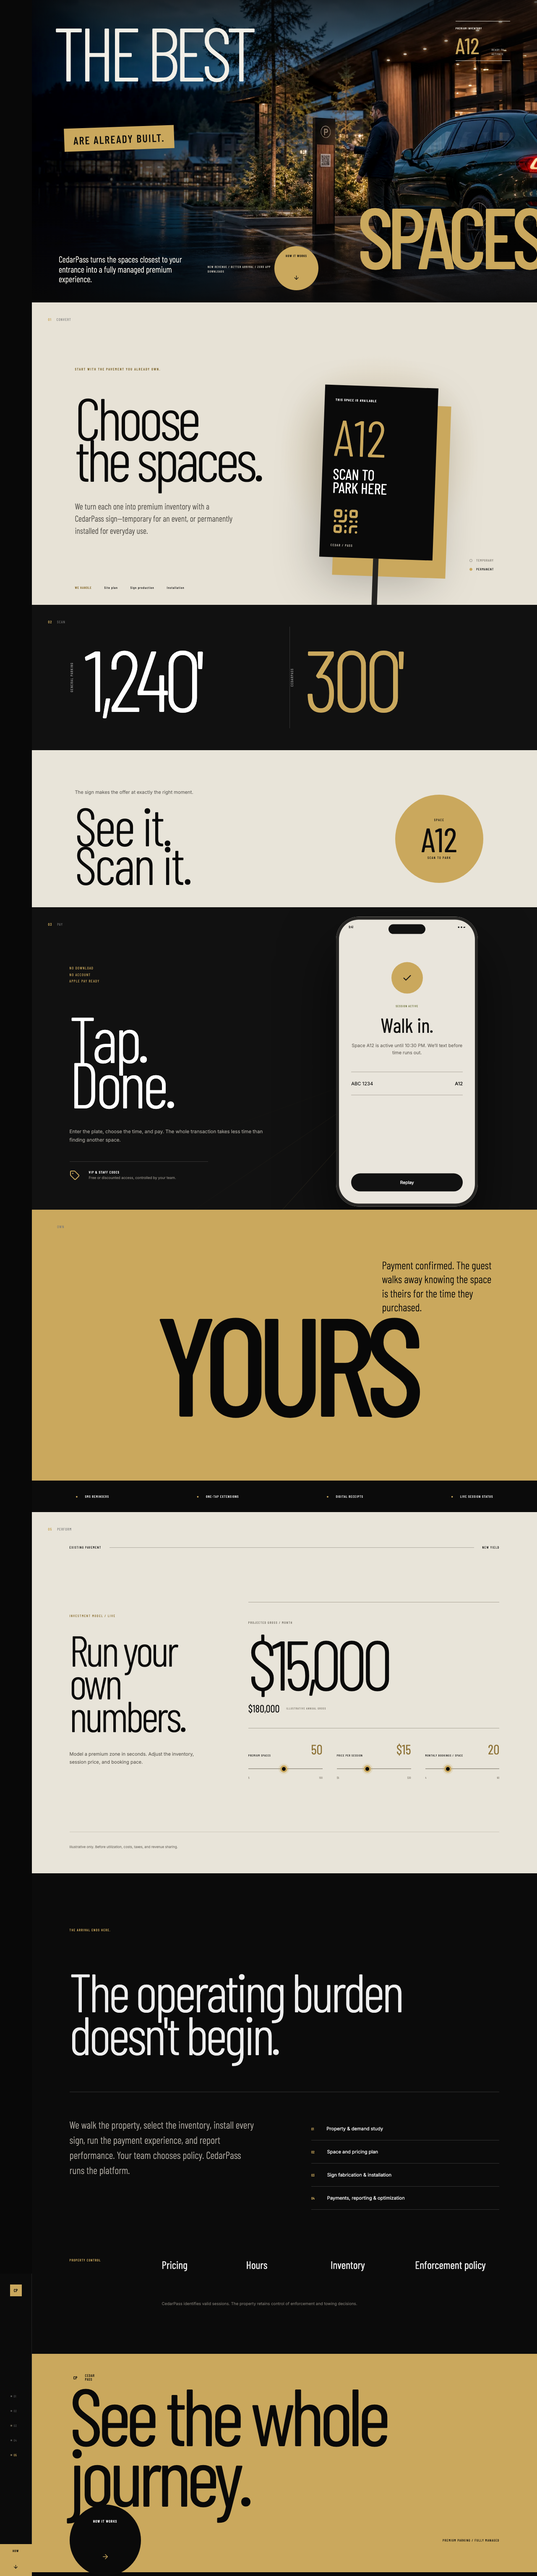
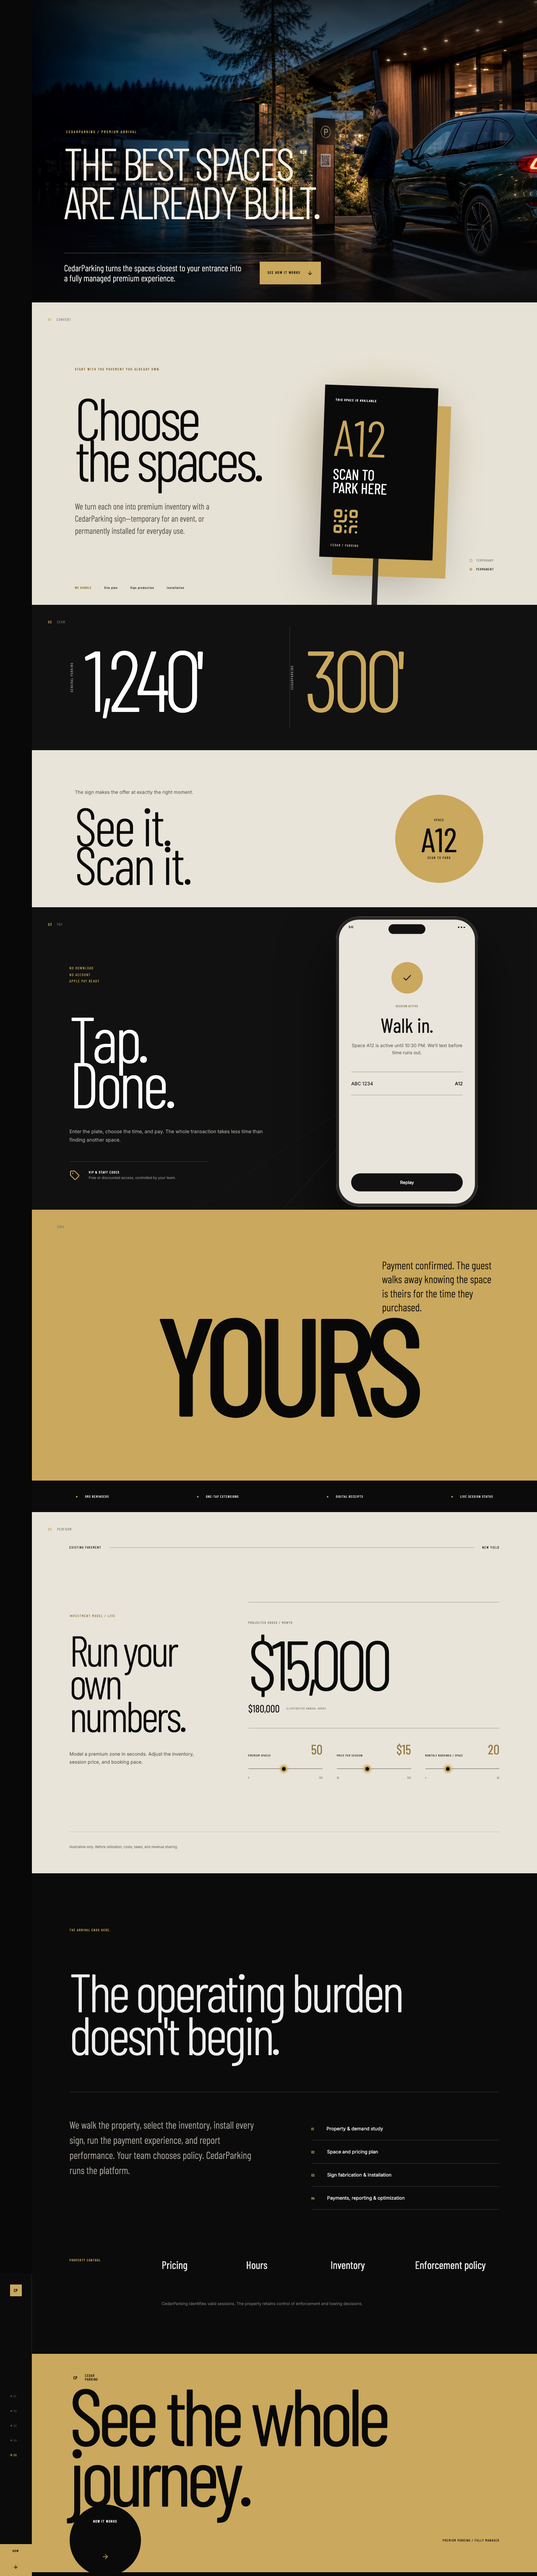
Refine desktop hero and rename CedarParking

Changed region(s): [[0.125, 0.0, 0.5938, 0.1246], [0.6562, 0.0623, 1.0, 0.1246], [0.8438, 0.0, 0.875, 0.0311]]

diff --git a/src/App.tsx b/src/App.tsx
@@ -18,12 +18,12 @@ const chapters = [
 
 function Mark() {
   return (
-    <a className="mark" href="#opening" aria-label="CedarPass home">
+    <a className="mark" href="#opening" aria-label="CedarParking home">
       <i>CP</i>
       <span>
         CEDAR
         <br />
-        PASS
+        PARKING
       </span>
     </a>
   );
@@ -40,7 +40,7 @@ function Phone() {
         </div>
         {step === 0 && (
           <div className="screen start">
-            <div className="phone-brand">CEDAR / PASS</div>
+            <div className="phone-brand">CEDAR / PARKING</div>
             <div className="space-number">A12</div>
             <div className="space-meta">
               <span>CEDAR ENTRANCE</span>
@@ -255,29 +255,25 @@ function App() {
       <section className="opening" id="opening">
         <img
           src={`${import.meta.env.BASE_URL}assets/cedarpass-arrival-hero.webp`}
-          alt="A guest arriving at a premium CedarPass parking space"
+          alt="A guest arriving at a premium CedarParking space"
         />
         <div className="opening-title">
-          <strong>THE BEST</strong>
-          <em>SPACES</em>
-          <b>ARE ALREADY BUILT.</b>
+          <strong>
+            The best spaces
+            <br />
+            are already built.
+          </strong>
+          <span>CEDARPARKING / PREMIUM ARRIVAL</span>
         </div>
         <div className="opening-caption">
           <p>
-            CedarPass turns the spaces closest to your entrance into a fully
+            CedarParking turns the spaces closest to your entrance into a fully
             managed premium experience.
           </p>
-          <span>NEW REVENUE / BETTER ARRIVAL / ZERO APP DOWNLOADS</span>
+          <a href="#chapter-0" className="opening-cta">
+            See how it works <ArrowDown />
+          </a>
         </div>
-        <div className="opening-space">
-          <span>PREMIUM INVENTORY</span>
-          <b>A12</b>
-          <small>READY TO ACTIVATE</small>
-        </div>
-        <a href="#chapter-0" className="start-film">
-          <span>HOW IT WORKS</span>
-          <ArrowDown />
-        </a>
       </section>
 
       <section className="journey">
@@ -301,12 +297,12 @@ function App() {
               the spaces.
             </h2>
             <p>
-              We turn each one into premium inventory with a CedarPass
+              We turn each one into premium inventory with a CedarParking
               sign—temporary for an event, or permanently installed for everyday
               use.
             </p>
           </div>
-          <div className="sign-stage" aria-label="CedarPass parking sign">
+          <div className="sign-stage" aria-label="CedarParking parking sign">
             <div className="sign-shadow" />
             <div className="parking-sign">
               <span>THIS SPACE IS AVAILABLE</span>
@@ -317,7 +313,7 @@ function App() {
                 PARK HERE
               </b>
               <QrCode />
-              <small>CEDAR / PASS</small>
+              <small>CEDAR / PARKING</small>
             </div>
             <div className="sign-options">
               <span>
@@ -352,7 +348,7 @@ function App() {
             <span>GENERAL PARKING</span>
             <strong>1,240'</strong>
             <i />
-            <span>CEDARPASS</span>
+            <span>CEDARPARKING</span>
             <strong>300'</strong>
           </div>
           <div className="choice-copy">
@@ -488,7 +484,7 @@ function App() {
           <p>
             We walk the property, select the inventory, install every sign, run
             the payment experience, and report performance. Your team chooses
-            policy. CedarPass runs the platform.
+            policy. CedarParking runs the platform.
           </p>
           <ol>
             <li>
@@ -514,7 +510,7 @@ function App() {
             <b>Enforcement policy</b>
           </div>
           <p>
-            CedarPass identifies valid sessions. The property retains control of
+            CedarParking identifies valid sessions. The property retains control of
             enforcement and towing decisions.
           </p>
         </div>

diff --git a/src/styles.css b/src/styles.css
@@ -1768,7 +1768,99 @@ p {
   }
 }
 
-/* The CedarPass protocol: one conversion path from physical space to paid session. */
+/* Unified campaign lockup: one headline, one explanation, one action. */
+.opening-title {
+  inset: auto auto 27vh 6vw;
+  display: flex;
+  flex-direction: column;
+  align-items: flex-start;
+  justify-items: initial;
+  max-width: min(830px, 68vw);
+  line-height: 0.86;
+}
+.opening-title strong {
+  position: static;
+  font-size: clamp(4.8rem, 8.4vw, 9.4rem);
+  font-weight: 300;
+  letter-spacing: -0.052em;
+  color: #f2efe7;
+}
+.opening-title > span {
+  order: -1;
+  margin: 0 0 22px 5px;
+  font: 500 0.55rem/1 Barlow Condensed;
+  letter-spacing: 0.24em;
+  color: var(--gold);
+}
+.opening-caption {
+  left: 6vw;
+  bottom: 6vh;
+  display: flex;
+  align-items: center;
+  gap: 36px;
+  max-width: 700px;
+  padding-top: 20px;
+  border-top: 1px solid #b5924b80;
+}
+.opening-caption p {
+  max-width: 430px;
+  font: 300 clamp(1.2rem, 1.65vw, 1.7rem)/1.12 Barlow Condensed;
+}
+.opening-cta {
+  flex: 0 0 auto;
+  display: inline-flex;
+  align-items: center;
+  gap: 16px;
+  padding: 15px 19px;
+  background: var(--gold);
+  color: #090909;
+  text-decoration: none;
+  text-transform: uppercase;
+  font: 600 0.55rem/1 Barlow Condensed;
+  letter-spacing: 0.14em;
+}
+.opening-cta svg {
+  width: 14px;
+}
+.opening-space,
+.start-film {
+  display: none;
+}
+
+@media (max-width: 620px) {
+  .opening-title {
+    inset: 0;
+    max-width: none;
+    padding: 6vh 6vw 0;
+    line-height: 0.84;
+  }
+  .opening-title strong {
+    font-size: clamp(3.75rem, 18vw, 5.3rem);
+    letter-spacing: -0.045em;
+  }
+  .opening-title > span {
+    margin: 0 0 14px 2px;
+    font-size: 0.43rem;
+    letter-spacing: 0.2em;
+  }
+  .opening-caption {
+    left: 6vw;
+    right: 6vw;
+    bottom: 8vh;
+    display: grid;
+    gap: 18px;
+    max-width: none;
+  }
+  .opening-caption p {
+    max-width: 340px;
+    font-size: 1.55rem;
+  }
+  .opening-cta {
+    width: max-content;
+  }
+}
+
+/* The CedarParking protocol: one conversion path from physical space to paid session. */
 .spine-cta {
   width: 76px;
   height: 76px;

diff --git a/tests/site.spec.ts b/tests/site.spec.ts
@@ -1,14 +1,14 @@
 import { expect, test } from '@playwright/test'
 
-test('CedarPass arrival journey and booking demo work', async ({ page }, testInfo) => {
+test('CedarParking arrival journey and booking demo work', async ({ page }, testInfo) => {
   const errors: string[] = []
   page.on('console', message => message.type() === 'error' && errors.push(message.text()))
   page.on('pageerror', error => errors.push(error.message))
   await page.goto('/cedarpass/')
 
-  await expect(page.locator('#opening').getByText('THE BEST', { exact: true })).toBeVisible()
-  await expect(page.locator('#opening').getByText('SPACES', { exact: true })).toBeVisible()
-  await expect(page.locator('#opening').getByText('ARE ALREADY BUILT.', { exact: true })).toBeVisible()
+  await expect(page).toHaveTitle(/CedarParking/)
+  await expect(page.locator('#opening').getByText(/the best spaces/i)).toBeVisible()
+  await expect(page.locator('#opening').getByText(/are already built/i)).toBeVisible()
   await expect(page.getByRole('link', { name: /how it works/i }).first()).toHaveAttribute('href', '#chapter-0')
   await page.locator('#chapter-0').scrollIntoViewIfNeeded()
   await expect(page.getByRole('heading', { name: /choose the spaces/i })).toBeVisible()

diff --git a/index.html b/index.html
@@ -4,8 +4,8 @@
     <meta charset="UTF-8" />
     <meta name="viewport" content="width=device-width, initial-scale=1.0" />
     <meta name="theme-color" content="#092d2b" />
-    <meta name="description" content="CedarPass turns your best parking spaces into a premium guest experience and a new source of revenue." />
-    <title>CedarPass — The best part of parking is arriving</title>
+    <meta name="description" content="CedarParking turns your best parking spaces into a premium guest experience and a new source of revenue." />
+    <title>CedarParking — The best part of parking is arriving</title>
   </head>
   <body>
     <div id="root"></div>

diff --git a/README.md b/README.md
@@ -1,6 +1,6 @@
-# CedarPass
+# CedarParking
 
-CedarPass is a public-facing product concept for premium spaces inside otherwise free parking lots. Guests scan a space-specific QR sign, enter their vehicle, pay, and park without downloading an app. Operators receive pricing, validation, session, revenue, reporting, and policy-support tools.
+CedarParking is a public-facing product concept for premium spaces inside otherwise free parking lots. Guests scan a space-specific QR sign, enter their vehicle, pay, and park without downloading an app. Operators receive pricing, validation, session, revenue, reporting, and policy-support tools.
 
 This repository contains the responsive marketing experience and interactive guest/operator previews used to shape the eventual product specification.
 
